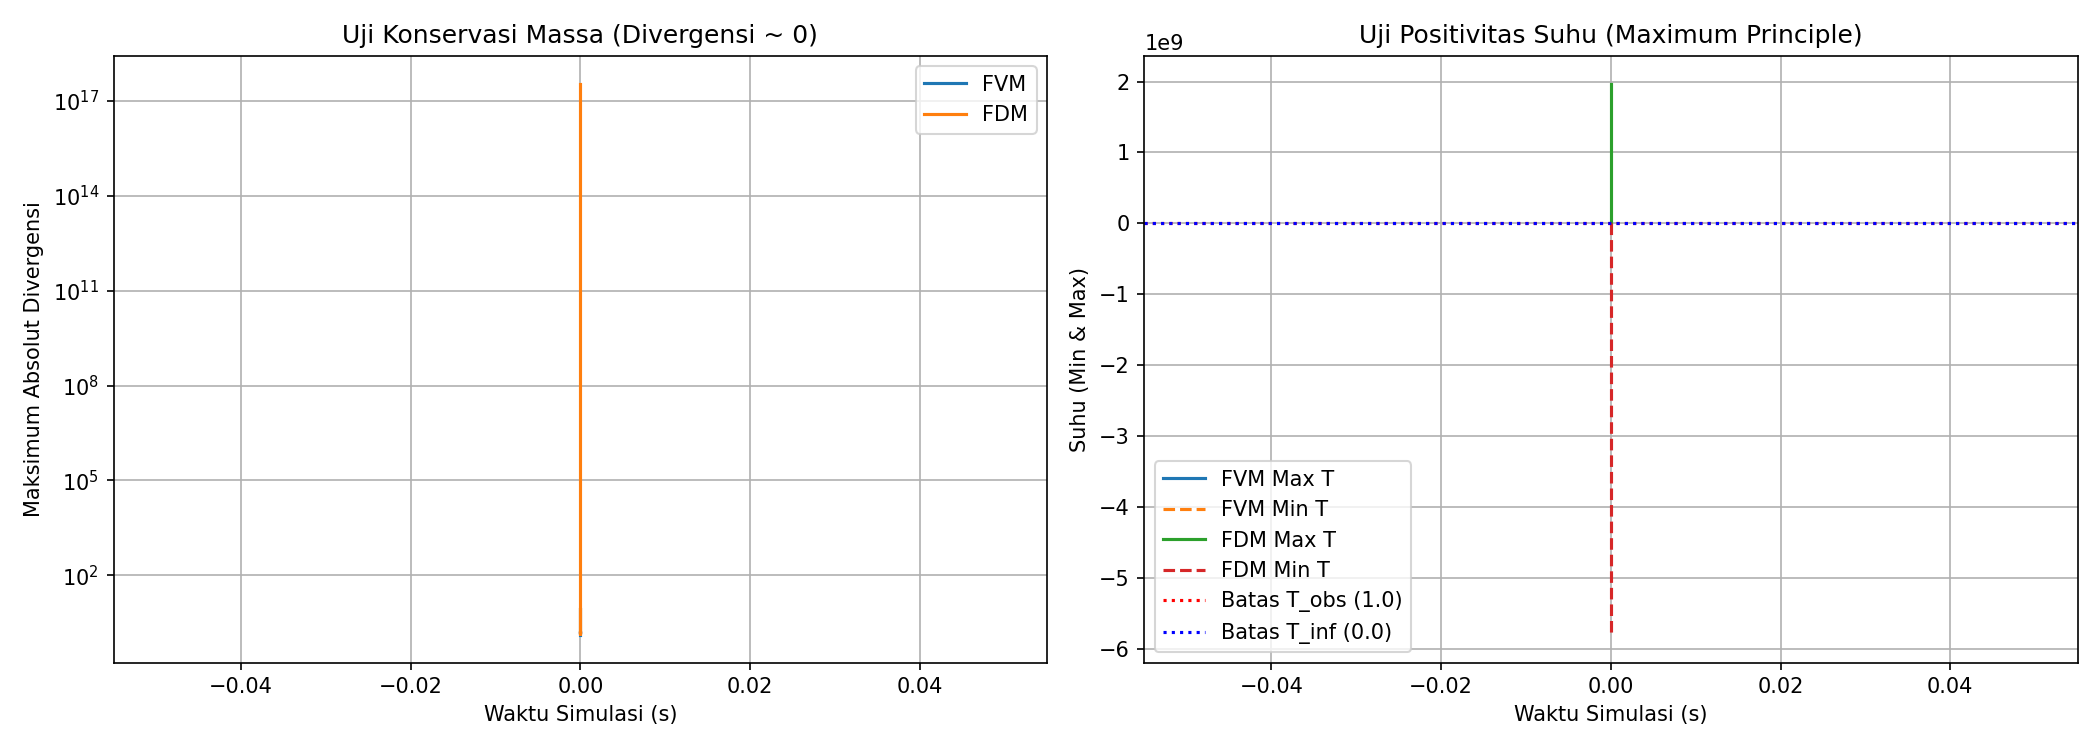
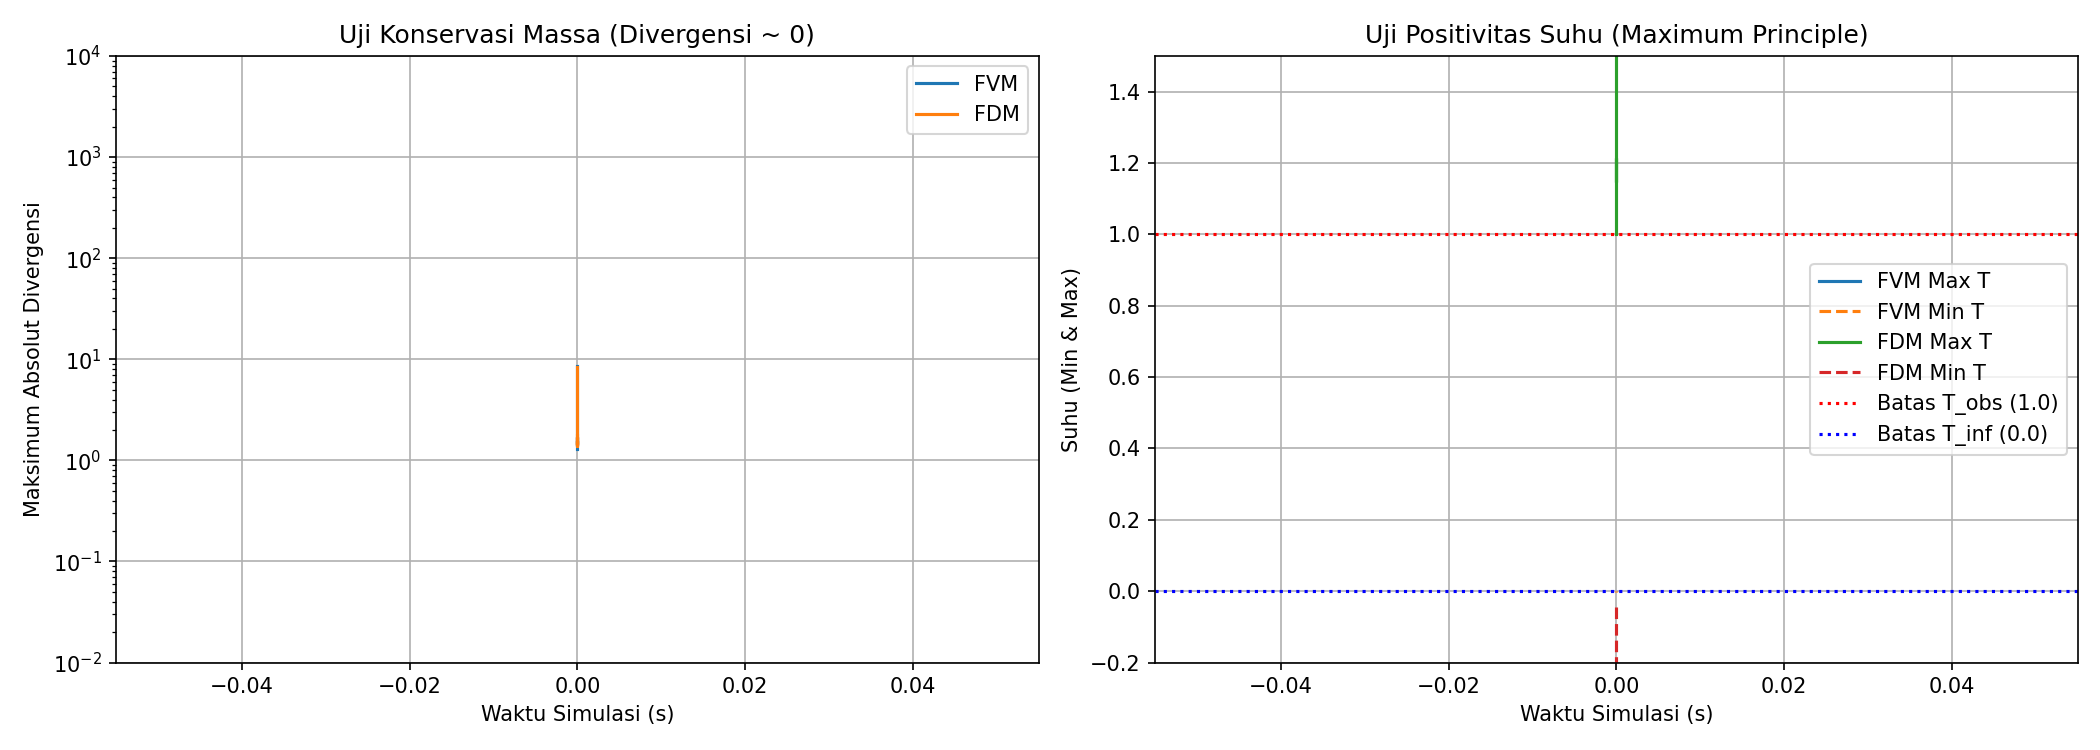
Tests: Improve plot scaling for conservation test to make FVM visible

diff --git a/tests/test_conservation.py b/tests/test_conservation.py
@@ -63,6 +63,12 @@ def main():
     
     for method in methods:
         divs, t_max, t_min, dt = results[method]
+        # Filter NaN or Inf
+        valid_idx = np.isfinite(divs) & np.isfinite(t_max) & np.isfinite(t_min)
+        divs = np.array(divs)[valid_idx]
+        t_max = np.array(t_max)[valid_idx]
+        t_min = np.array(t_min)[valid_idx]
+        
         time_axis = np.arange(len(divs)) * dt * 10
         
         ax1.plot(time_axis, divs, label=f'{method.upper()}')
@@ -70,6 +76,7 @@ def main():
         ax2.plot(time_axis, t_min, label=f'{method.upper()} Min T', linestyle='--')
         
     ax1.set_yscale('log')
+    ax1.set_ylim(1e-2, 1e4)  # Limit to see FVM clearly
     ax1.set_xlabel('Waktu Simulasi (s)')
     ax1.set_ylabel('Maksimum Absolut Divergensi')
     ax1.set_title('Uji Konservasi Massa (Divergensi ~ 0)')
@@ -78,6 +85,7 @@ def main():
     
     ax2.axhline(1.0, color='r', linestyle=':', label='Batas T_obs (1.0)')
     ax2.axhline(0.0, color='b', linestyle=':', label='Batas T_inf (0.0)')
+    ax2.set_ylim(-0.2, 1.5)  # Limit to see positivity bounds
     ax2.set_xlabel('Waktu Simulasi (s)')
     ax2.set_ylabel('Suhu (Min & Max)')
     ax2.set_title('Uji Positivitas Suhu (Maximum Principle)')
